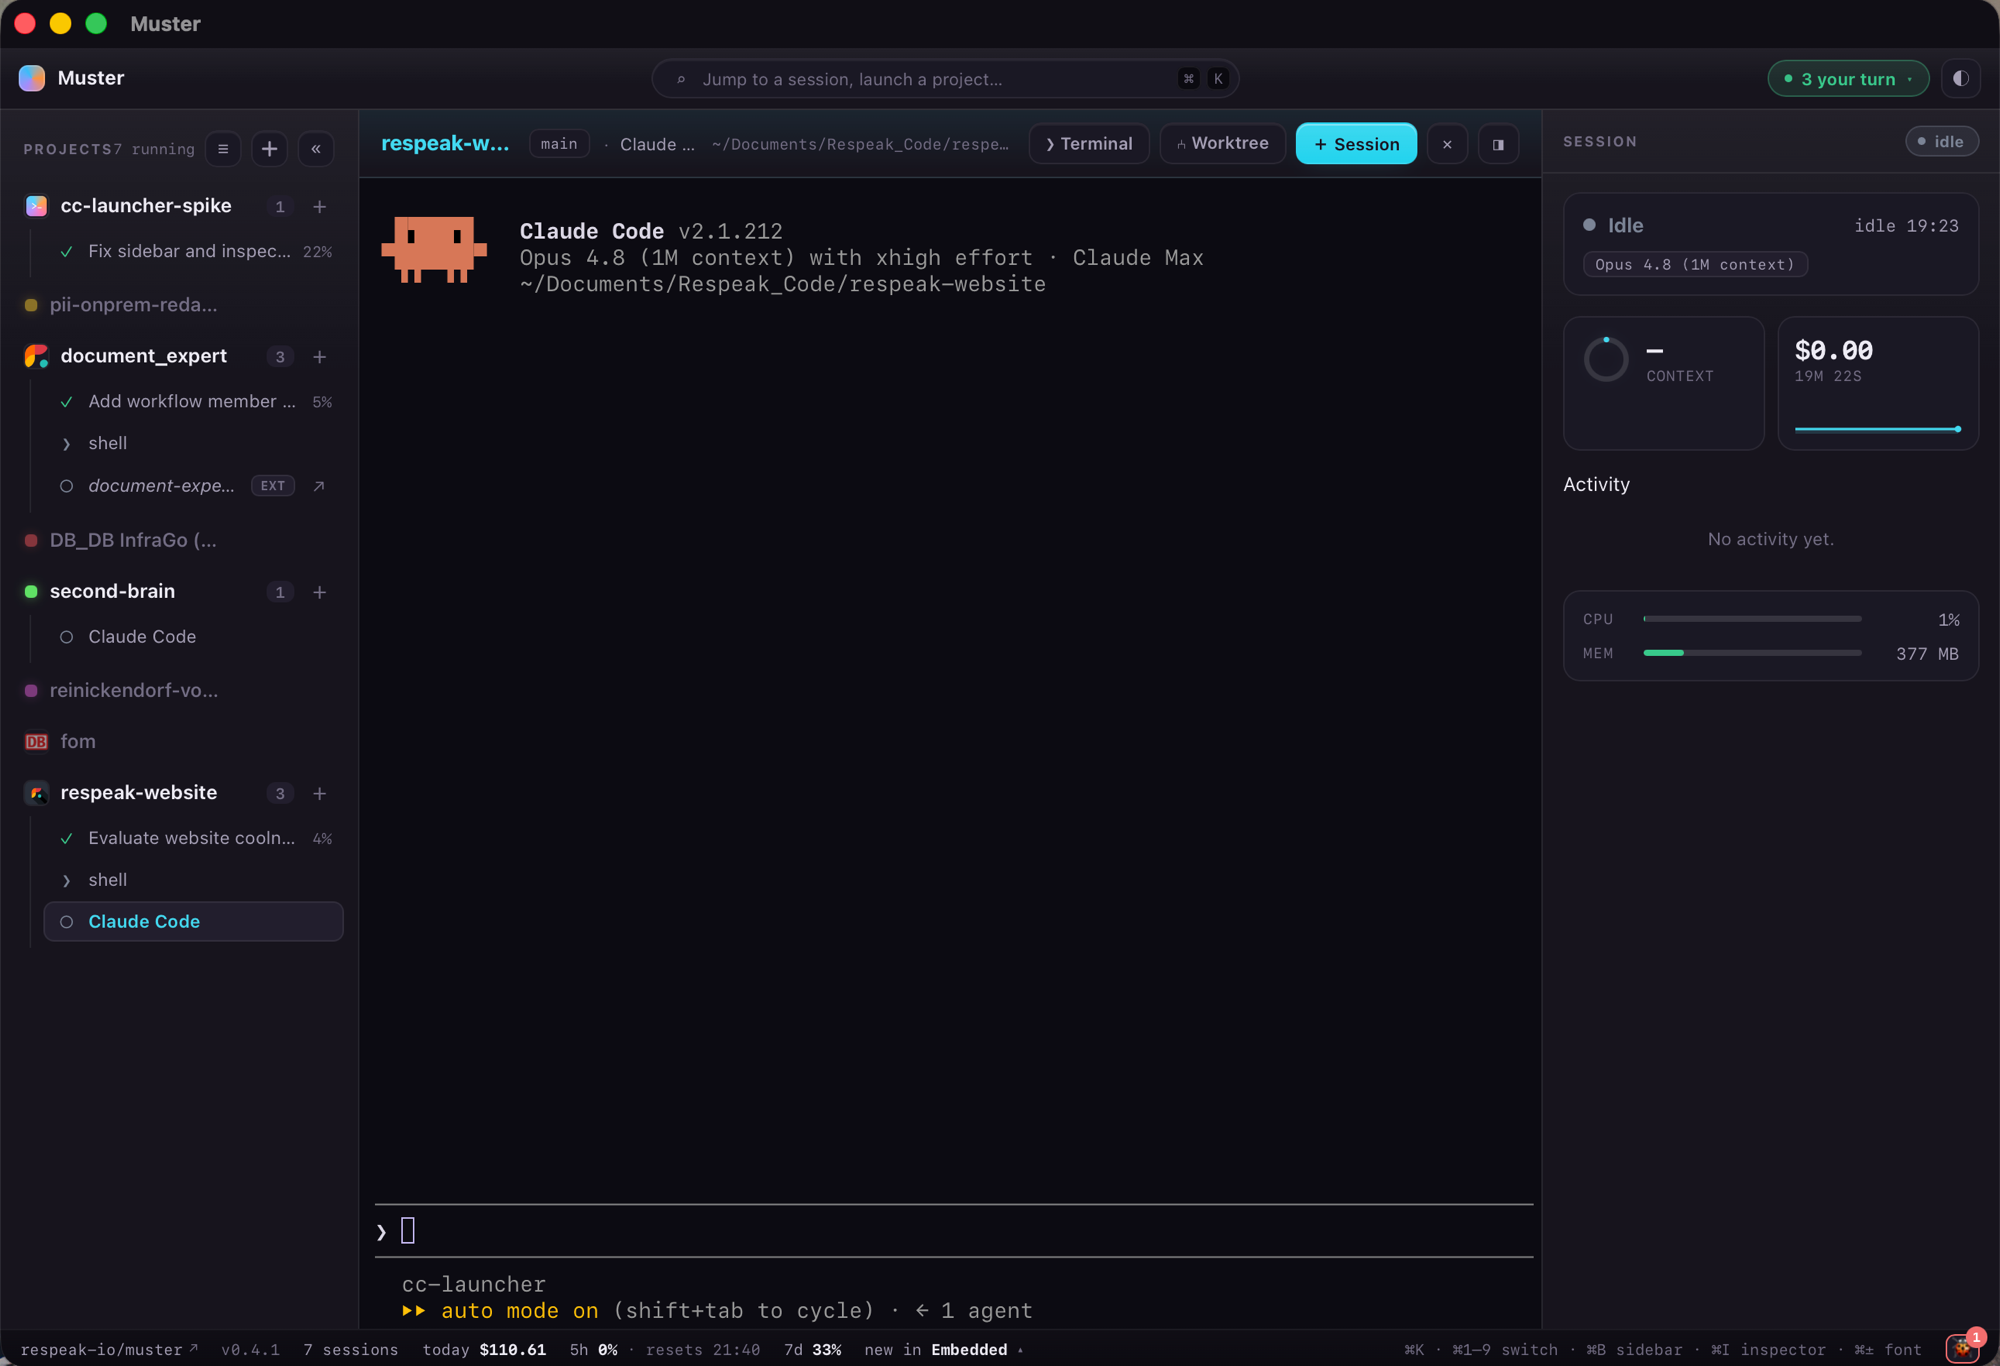
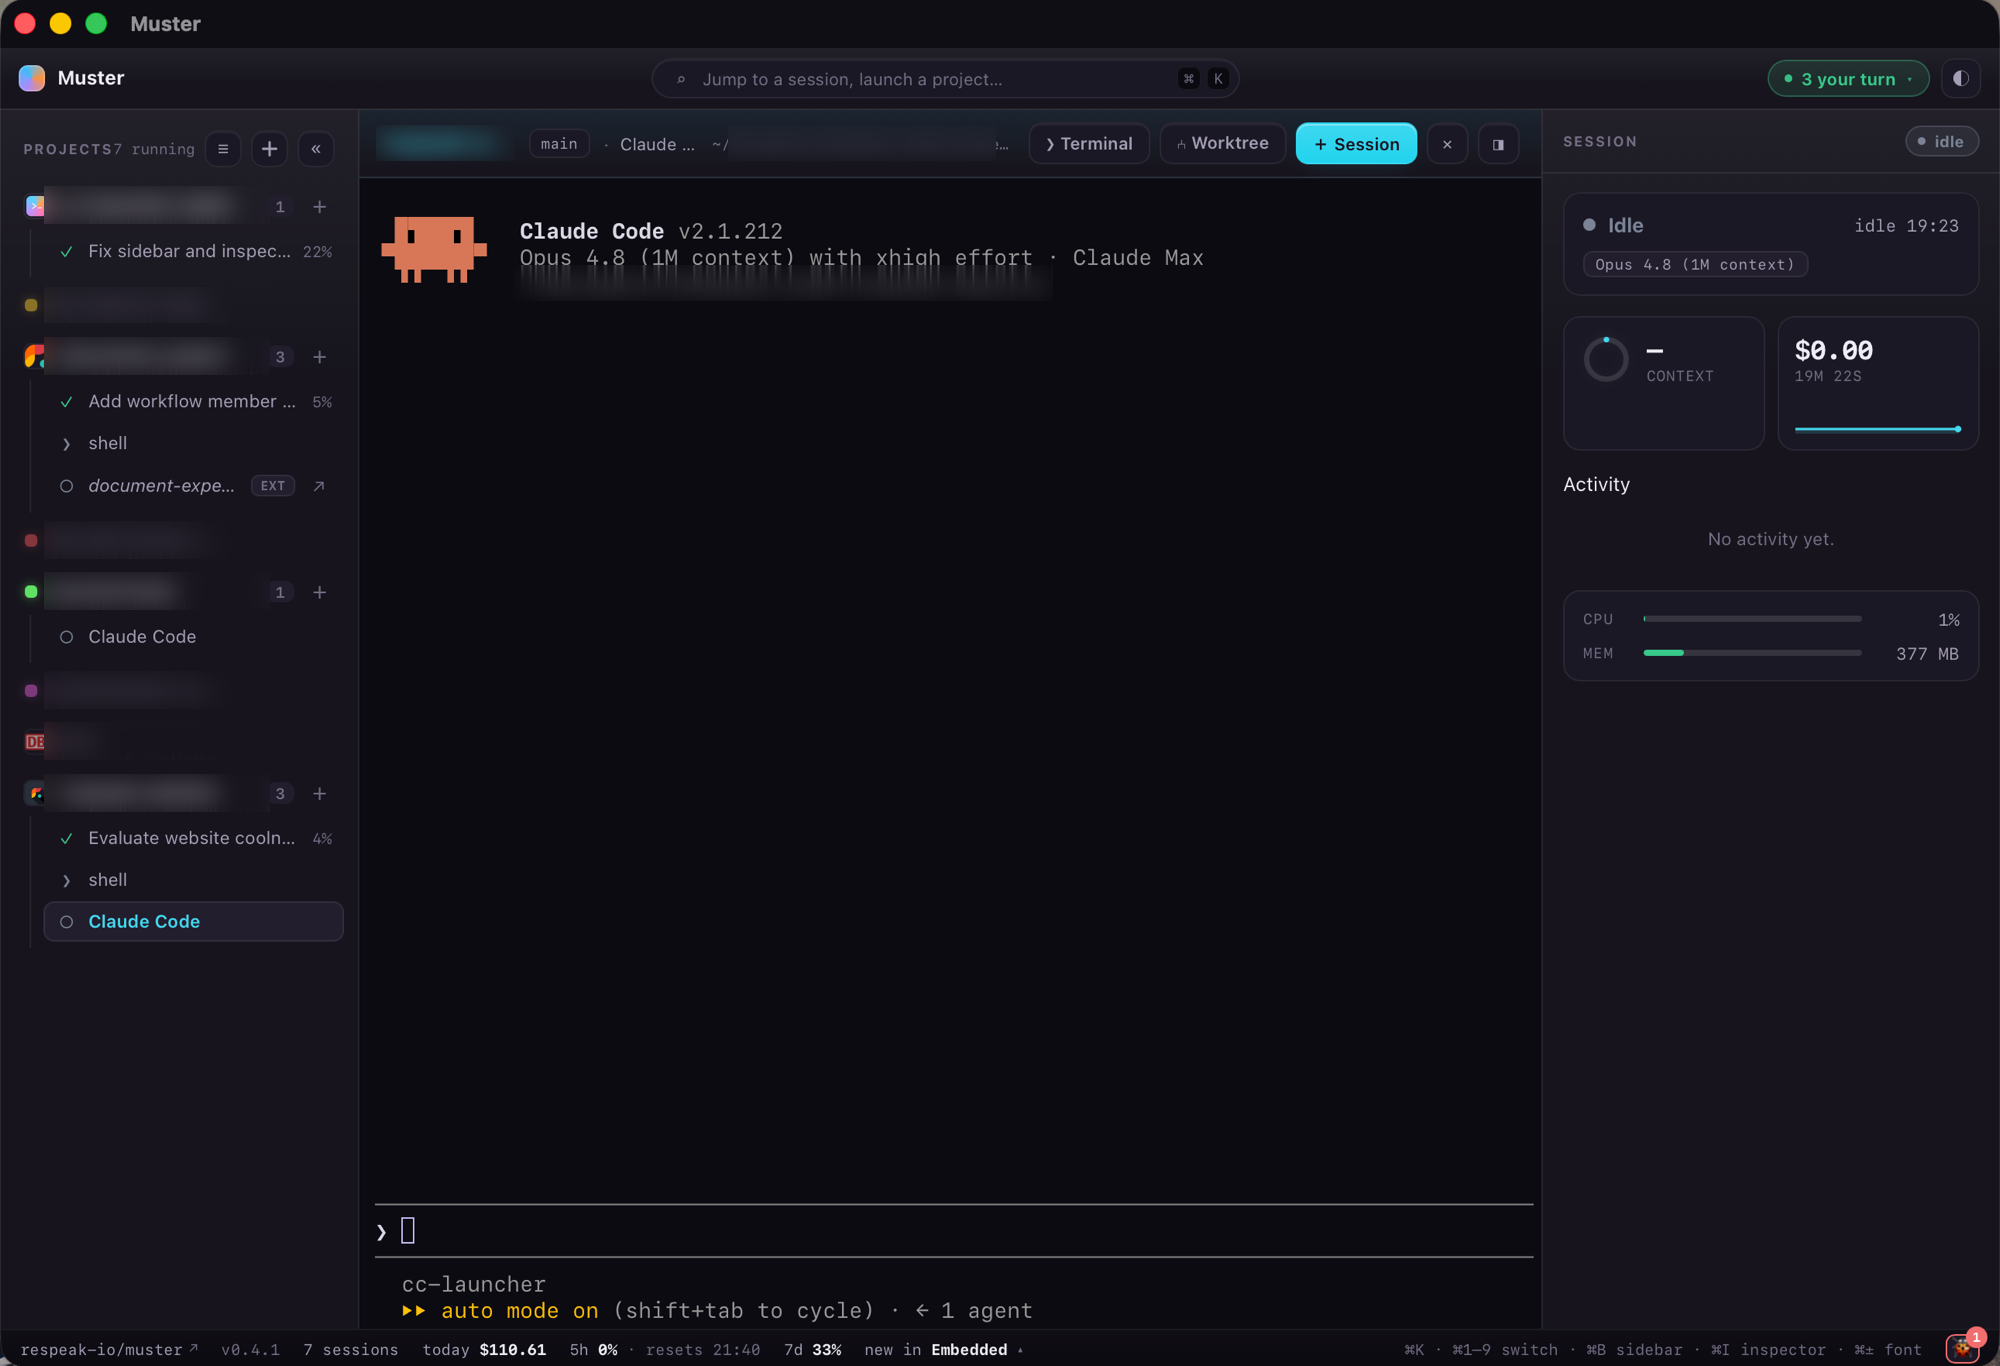
Blur project names in README screenshot; fix stale README limitation
- Redact the 8 sidebar project names + the two Respeak_Code paths from the product screenshot (session titles kept).
- Drop the outdated "observe-only permissions" limitation (permissions are answerable) and note Apple-Silicon-only builds.

diff --git a/README.md b/README.md
@@ -64,7 +64,7 @@ Then in the window: click **Launch Claude ▸**, pick a project, accept Claude's
 ## Known limitations
 
 - **macOS-first.** The generated hooks currently assume a macOS shell (`/usr/bin/curl`, `/bin/cat`); Windows needs a PowerShell/`curl.exe` variant.
-- **Observe-only permissions.** `PermissionRequest` events are reported, not answered. A blocking permission hook that returns a decision to Claude is a later phase.
+- **Apple Silicon only.** Release builds target `aarch64`; Intel Macs aren't covered.
 
 ## License
 